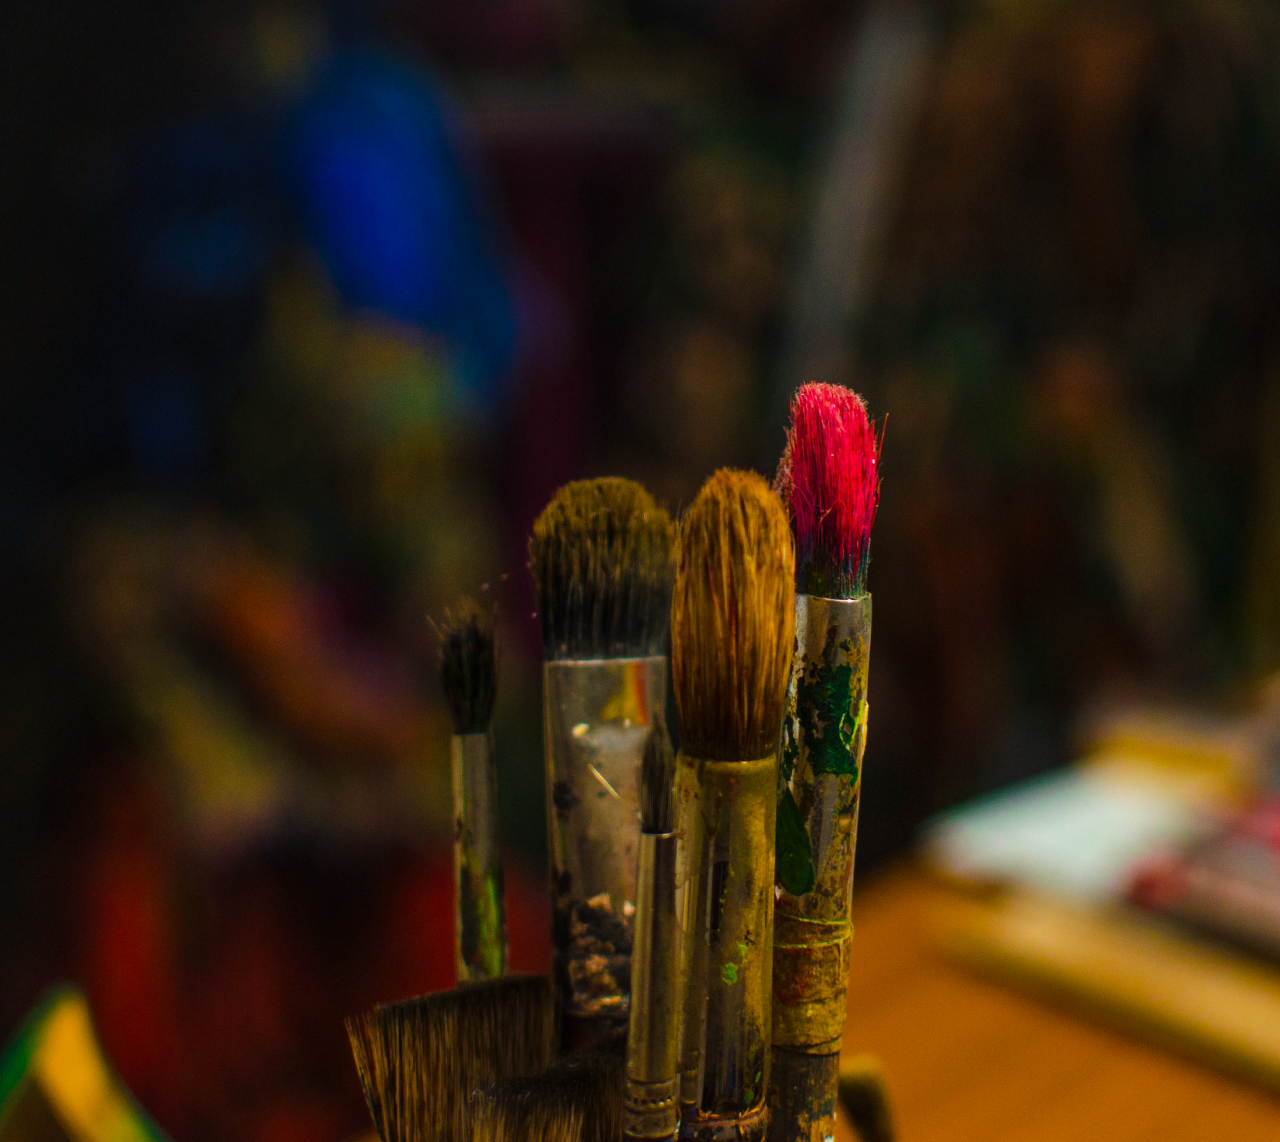
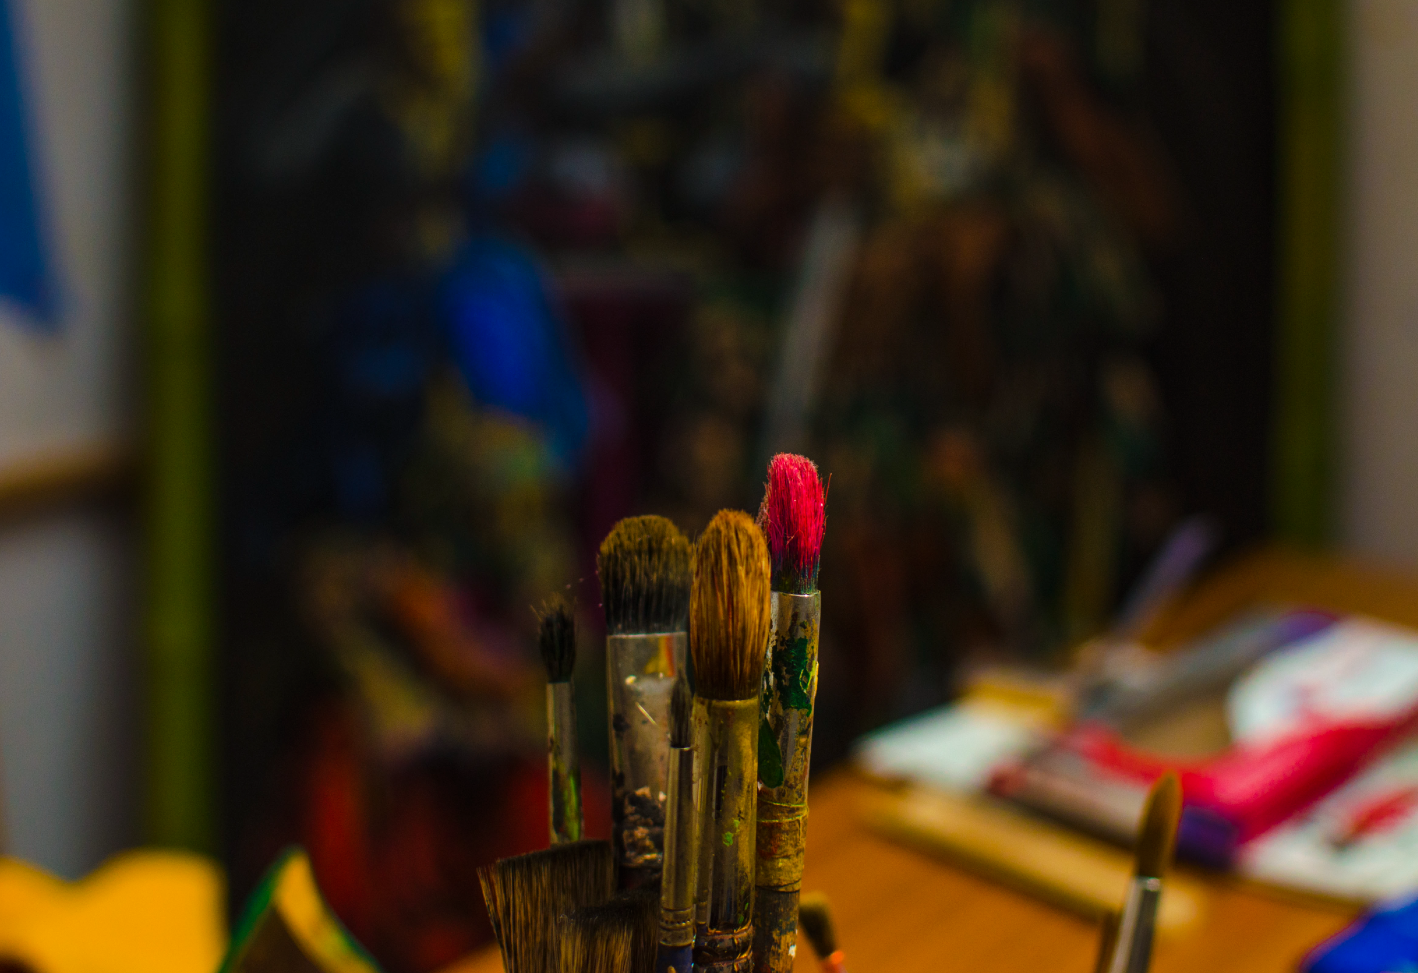
change the background image

diff --git a/css/styles.css b/css/styles.css
@@ -1,6 +1,7 @@
 .logo {
   display: flex;
   justify-content: center;
+  padding-top: 50px;
 /*margin: 0 auto;*/
 /*width: 100%;*/
 
@@ -77,7 +78,7 @@ bottom: 0%;
 
 
 body {
-  background-image: url(../img/bg2.png);
+  background-image: url(../img/bg4.png);
  background-repeat: no-repeat;
  background-size: cover;
 

diff --git a/css/styles2.css b/css/styles2.css
@@ -1,6 +1,10 @@
-.logo{
-  padding-left: 35%;
+.logo {
+  display: flex;
+  justify-content: center;
   padding-top: 50px;
+/*margin: 0 auto;*/
+/*width: 100%;*/
+
 }
 
 ul {
@@ -54,5 +58,5 @@ nav li:hover{
 }
 
 #footericons img {
-  padding-left: 70%;
+  float: right;
 }

diff --git a/contact.html b/contact.html
@@ -12,7 +12,9 @@
 
   <body>
 
-<img class="logo" src="img/logo2.png" align="middle" alt="pic of logo">
+    <div class="logo">
+      <img src="img/logo2.png" align="middle" alt="pic of logo">
+    </div>
 
 <nav>
   <ul>
